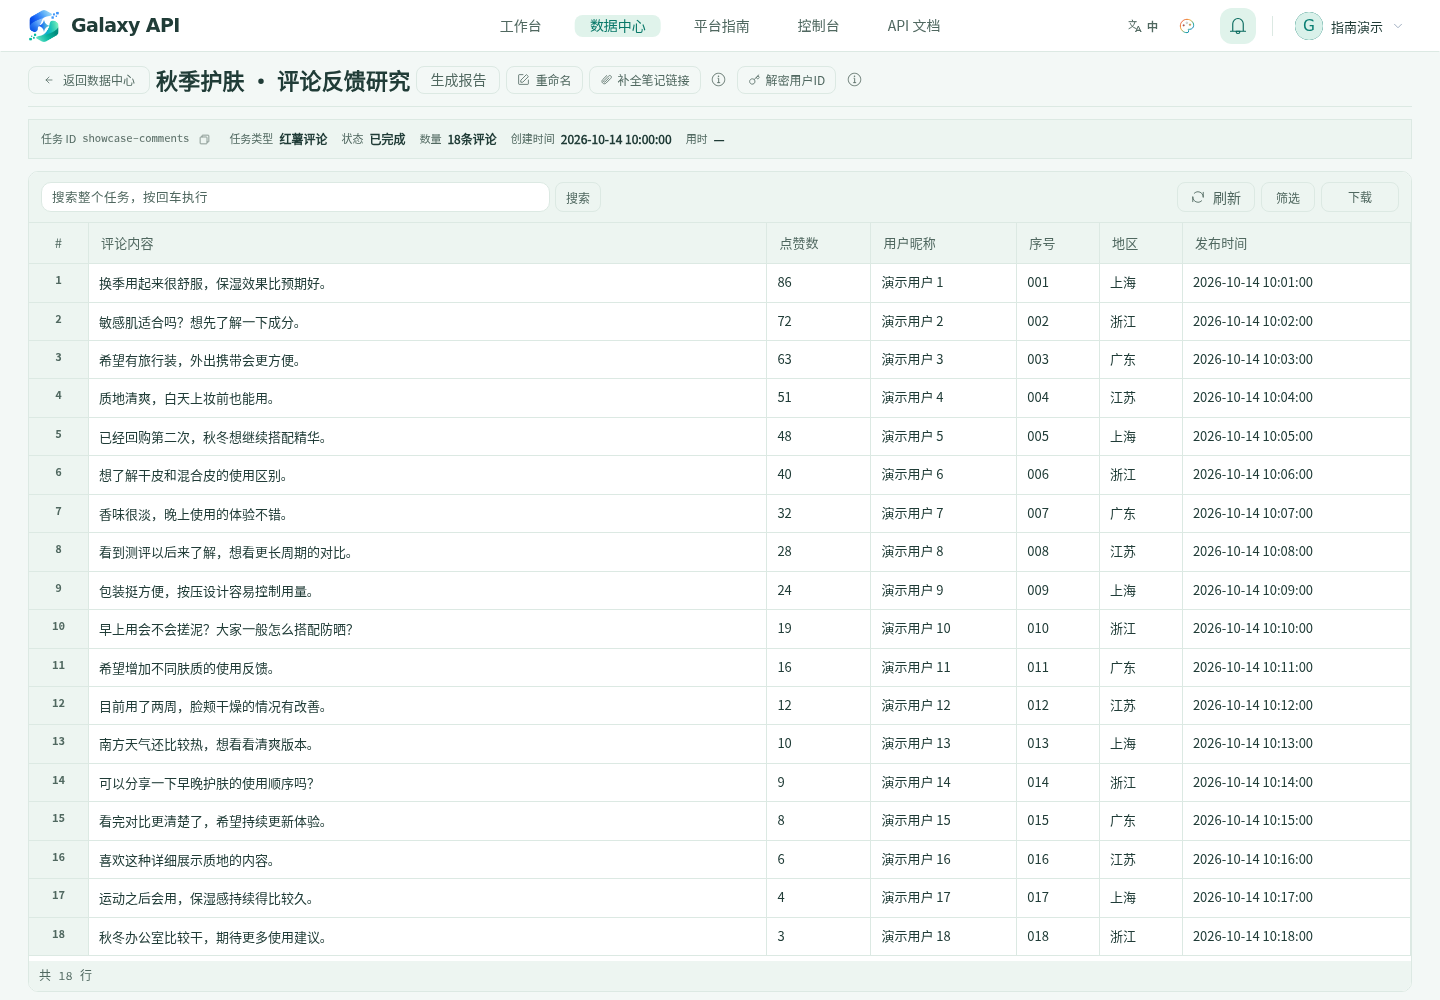
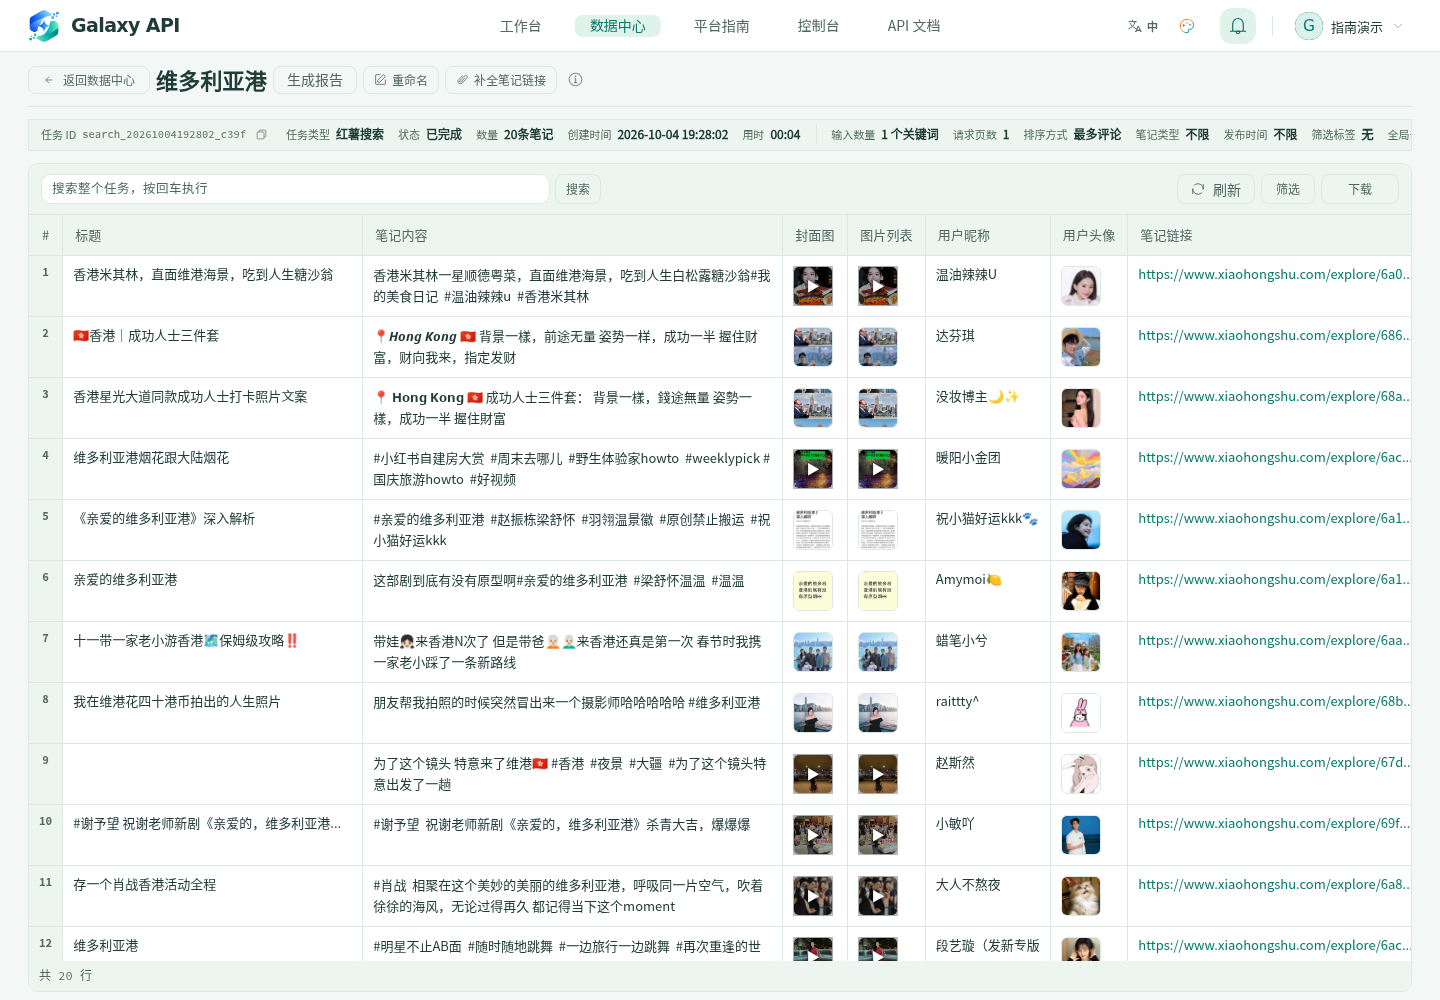
Use Victoria Harbour task for platform data preview

diff --git a/README.en.md b/README.en.md
@@ -31,15 +31,17 @@ Reports are processed, reviewed and delivered by analysts after submission and o
 
 ## Platform screenshots
 
-Collection and data-management screenshots show the current UI with a synthetic account and task data. Report screenshots come from previously published examples and illustrate analysis dimensions; current submission eligibility is described above. The screenshots use the Chinese interface.
+Collection and data-management screenshots show the current UI with a demo account. The data preview uses actual results from a Victoria Harbour search task; other collection and task-list screenshots use synthetic data. Report screenshots come from previously published examples and illustrate analysis dimensions; current submission eligibility is described above. The screenshots use the Chinese interface.
 
 **Choose a Xiaohongshu collection tool.**
 
 ![Xiaohongshu collection workbench](assets/screenshots/01-workbench.png)
 
-**Preview, search, filter and export collected records.**
+**Preview note titles, text, images and engagement; search, filter and export collected records.**
 
-![Data preview with synthetic comment data](assets/screenshots/04-data-preview.png)
+![Data preview with actual notes from a Victoria Harbour search task](assets/screenshots/04-data-preview.png)
+
+Task: `search_20261004192802_c39f`, keyword “维多利亚港” (Victoria Harbour), 20 notes.
 
 <details>
 <summary>View collection progress, Data Center and analysis reports</summary>

diff --git a/README.md b/README.md
@@ -31,15 +31,17 @@ Galaxy API 是以小红书为核心的数据采集分析平台。你可以在网
 
 ## 平台界面
 
-以下采集与数据管理截图使用当前平台界面、演示账户和合成任务数据；分析报告截图来自官网已有的公开历史示例，用于展示分析维度。当前可提交的分析范围以上述功能说明为准。
+以下采集与数据管理截图使用当前平台界面和演示账户。数据预览展示“维多利亚港”搜索任务的真实采集结果，其他采集与任务列表使用合成演示数据；分析报告截图来自官网已有的公开历史示例，用于展示分析维度。当前可提交的分析范围以上述功能说明为准。
 
 **功能广场：按平台和用途选择采集工具。**
 
 ![小红书功能广场：筛选和查找采集工具](assets/screenshots/01-workbench.png)
 
-**数据预览：在表格中查看评论、互动信息，进一步筛选或导出。**
+**数据预览：查看笔记标题、正文、图片与互动信息，进一步筛选或导出。**
 
-![数据预览：表格、搜索、筛选与下载入口，内容为演示数据](assets/screenshots/04-data-preview.png)
+![数据预览：维多利亚港搜索任务的真实笔记数据](assets/screenshots/04-data-preview.png)
+
+截图任务：`search_20261004192802_c39f`，关键词“维多利亚港”，共 20 条笔记。
 
 <details>
 <summary>展开查看采集进度、数据中心和分析报告截图</summary>
